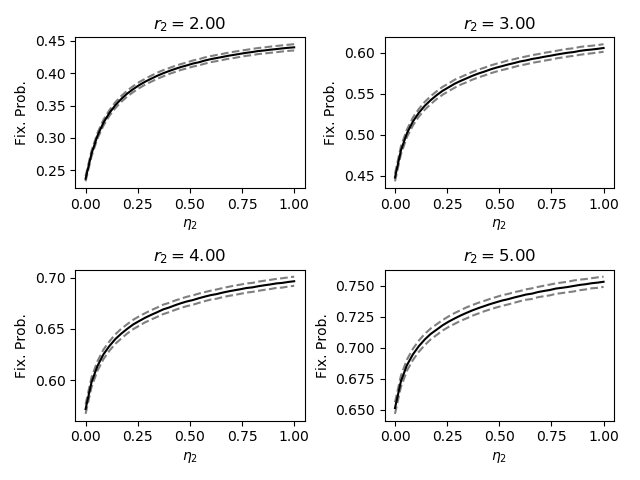
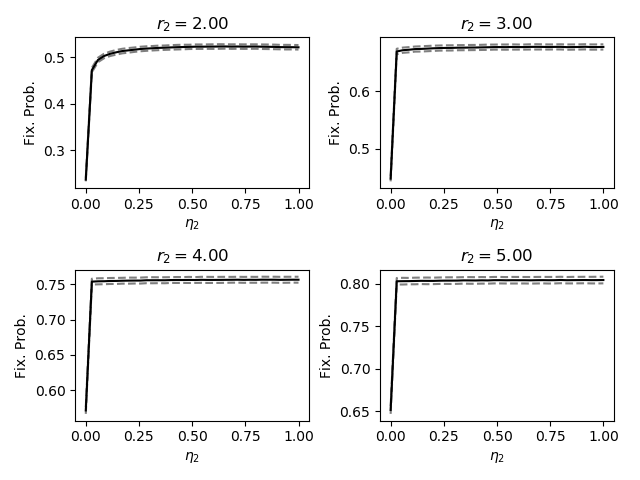
Updated plot function

diff --git a/python/plotting_code/plotgenerator.py b/python/plotting_code/plotgenerator.py
@@ -1,7 +1,25 @@
 import numpy as np
 import matplotlib.pyplot as plt
 import pickle
+import scipy.interpolate as interp
 import os
+import time
+
+
+def transform_dat(m):
+    N = len(m[0])
+    etas = [0] + [float(i)/(N - 1) for i in range(1, N)]
+    pts = [(_, _) for _ in range(N**2)]
+    vals = list(pts)
+
+    c = 0
+    for i in range(N):
+        for j in range(N):
+            pts[c] = (etas[i], etas[j])
+            vals[c] = m[i, j]
+            c += 1
+
+    return pts, vals
 
 
 def open_experiment(fn, n=50):
@@ -32,6 +50,7 @@ def std_plot(data, sd, show=True):
 
 
 if __name__ == "__main__":
+    start_time = time.time()
     m, s = open_experiment("../../data/vary_eta1_eta2_r2/moran_r2_1.0")
 
     ls = np.linspace(0, 1, len(m))
@@ -40,7 +59,7 @@ if __name__ == "__main__":
         plt.subplot(3, 2, i+1)
         plt.xlabel(r"$\eta_2$")
         plt.tight_layout()
-        plt.ylabel(r"$\rho_S(%0.1f, \eta_2)$" % ls[i*7])
+        plt.ylabel(r"$\rho(%0.1f, \eta_2)$" % ls[i*7])
         std_plot(m[i*7, :], s[i*7, :], show=False)
 
     plt.savefig("../../images/constant_eta1_stackplot.png")
@@ -87,8 +106,8 @@ if __name__ == "__main__":
     plt.savefig("../../images/avg_eta1_r2_stackplot2.png")
     plt.clf()
 
-    for i, u2 in enumerate([0.05, 0.1, 0.15, 0.2]):
-        plt.subplot(2, 2, i + 1)
+    for i, u2 in enumerate([0.1, 0.2, 0.3, 0.4, 0.5, 0.6, 0.7, 0.8, 0.9]):
+        plt.subplot(3, 3, i + 1)
 
         m, s = open_experiment("../../data/vary_eta1_eta2_u2/moran_u2_" + str(u2))
         plt.xlabel(r'$\eta_2$')
@@ -97,31 +116,136 @@ if __name__ == "__main__":
         plt.tight_layout()
         std_plot(np.mean(m, 0), np.mean(s, 0), show=False)
 
-    plt.savefig("../../images/avg_eta1_u2_stackplot1.png")
+    plt.savefig("../../images/avg_eta1_u2_stackplot.png")
     plt.clf()
 
-    for i, u2 in enumerate([.3, 0.4, 0.5, 0.6]):
-        plt.subplot(2, 2, i + 1)
+    m, s = open_experiment("../../data/vary_eta1_eta2_r2/moran_r2_1.0")
 
-        m, s = open_experiment("../../data/vary_eta1_eta2_u2/moran_u2_" + str(u2))
-        plt.xlabel(r'$\eta_2$')
-        plt.ylabel(r'Fix. Prob.')
-        plt.title(r'$u_2=%0.2f$' % u2)
-        plt.tight_layout()
-        std_plot(np.mean(m, 0), np.mean(s, 0), show=False)
+    points, values = transform_dat(m)
 
-    plt.savefig("../../images/avg_eta1_u2_stackplot2.png")
+    gran = 2001j
+
+    grid_x, grid_y = np.mgrid[0:1:gran, 0:1:gran]
+
+    gz = interp.griddata(points, values, (grid_x, grid_y), method='cubic')
+
+    points, values = transform_dat(s)
+
+    gs = interp.griddata(points, values, (grid_x, grid_y), method='cubic')
+
+
+    x, y = np.random.random((2,))
+
+    def F(x, y, targ=gz):
+        max_gran = int(gran.imag - 1)
+
+        xiter = yiter = True
+
+        try:
+            len(x)
+        except:
+            xiter = False
+
+        try:
+            len(y)
+        except:
+            yiter = False
+
+        if xiter and not yiter:
+            y = [y for _ in range(len(x))]
+        elif yiter and not xiter:
+            x = [x for _ in range(len(y))]
+        elif not yiter and not xiter:
+            y = [y]
+            x = [x]
+
+        X, Y = np.array([int(xx * max_gran) for xx in x]), np.array([int(yy * max_gran) for yy in y])
+
+        bool = (X >= 0) * (X <= max_gran) * (Y >= 0) * (Y <= max_gran)
+
+        return np.array([targ[X[i], Y[i]] if bool[i] else -1 for i in range(len(X))])
+
+    ls = np.linspace(0, 1, 36)
+
+    M = 150
+    X = np.linspace(0, 1, M + 1)
+    X = np.array(X)
+
+    linestyles = ["-k", "-kd", "-ko", "-k*", "-ks", "-kp", "-k^"]
+
+    for i,alpha in enumerate((0, 0.04,  0.08, 0.12, 0.16, 0.2, 0.24)):
+        dat = F(X + alpha, X)
+        bool = dat >= 0
+
+        if alpha == 0:
+            lab = r"$\eta_1=\eta_2$"
+        else:
+            lab = r"$\eta_1=\eta_2 + %0.2f$" % alpha
+
+        plt.plot(X[bool], dat[bool], linestyles[i], markevery=10, label=lab)
+
+    plt.xlabel(r"$\eta_2$")
+    plt.ylabel("Fixation Probability")
+
+    plt.legend()
+    plt.savefig("../../images/eta_plus_const.png")
     plt.clf()
 
-    for i, u2 in enumerate([0.7, 0.8, 0.9, 0.95]):
-        plt.subplot(2, 2, i + 1)
+    for i,alpha in enumerate((0, 0.05, 0.1, 0.2, 0.3, 0.4)):
+        dat = F(X - alpha, X)
+        bool = dat >= 0
 
-        m, s = open_experiment("../../data/vary_eta1_eta2_u2/moran_u2_" + str(u2))
-        plt.xlabel(r'$\eta_2$')
-        plt.ylabel(r'Fix. Prob.')
-        plt.title(r'$u_2=%0.2f$' % u2)
-        plt.tight_layout()
-        std_plot(np.mean(m, 0), np.mean(s, 0), show=False)
+        if alpha == 0:
+            lab = r"$\eta_1=\eta_2$"
+        else:
+            lab = r"$\eta_1=\eta_2 - %0.2f$" % alpha
 
-    plt.savefig("../../images/avg_eta1_u2_stackplot3.png")
+        plt.plot(X[bool], dat[bool], linestyles[i], markevery=10, label=lab)
+
+    plt.xlabel(r"$\eta_2$")
+    plt.ylabel("Fixation Probability")
+
+    plt.legend()
+    plt.savefig("../../images/eta_minus_const.png")
     plt.clf()
+
+    for i,alpha in enumerate((0, 0.2, 0.4, 0.6, 0.8)):
+        dat = F(X / (1 + alpha), X)
+        bool = dat >= 0
+
+        if alpha == 0:
+            lab = r"$\eta_1=\eta_2$"
+        else:
+            lab = r"$\eta_1=\frac{\eta_2}{%0.1f}$" % (1+alpha)
+
+        plt.plot(X[bool], dat[bool], linestyles[i], markevery=10, label=lab)
+
+    plt.xlabel(r"$\eta_2$")
+    plt.ylabel("Fixation Probability")
+
+    plt.legend()
+    plt.savefig("../../images/eta_div_const.png")
+    plt.clf()
+
+    for i,alpha in enumerate((0, 0.2, 0.4, 0.6, 0.8)):
+        dat = F(X * (1 + alpha), X)
+        bool = dat >= 0
+
+        if alpha == 0:
+            lab = r"$\eta_1=\eta_2$"
+        else:
+            lab = r"$\eta_1=%0.1f\eta_2$" % (1 + alpha)
+
+        plt.plot(X[bool], dat[bool], linestyles[i], markevery=10, label=lab)
+
+    plt.xlabel(r"$\eta_2$")
+    plt.ylabel("Fixation Probability")
+
+    plt.legend()
+    plt.savefig("../../images/eta_times_const.png")
+    plt.clf()
+
+    elapsed_time = time.time() - start_time
+
+    print "Plots generated in ", int(elapsed_time / 60), "minutes and", int(elapsed_time - int(elapsed_time /60)*60), "seconds"
+
